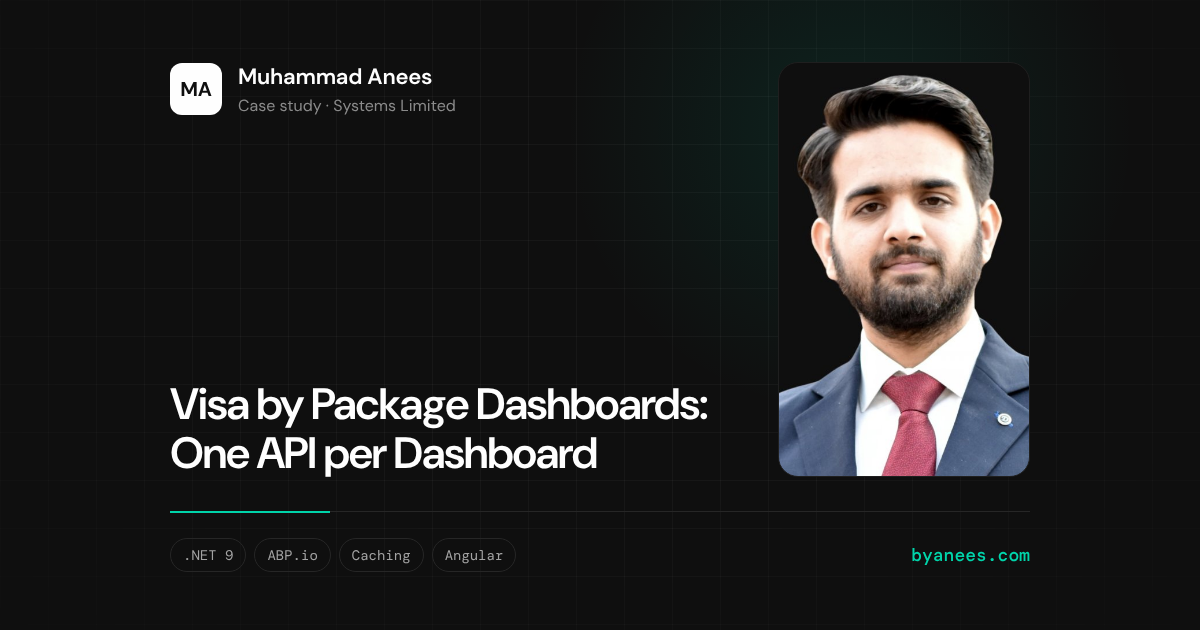
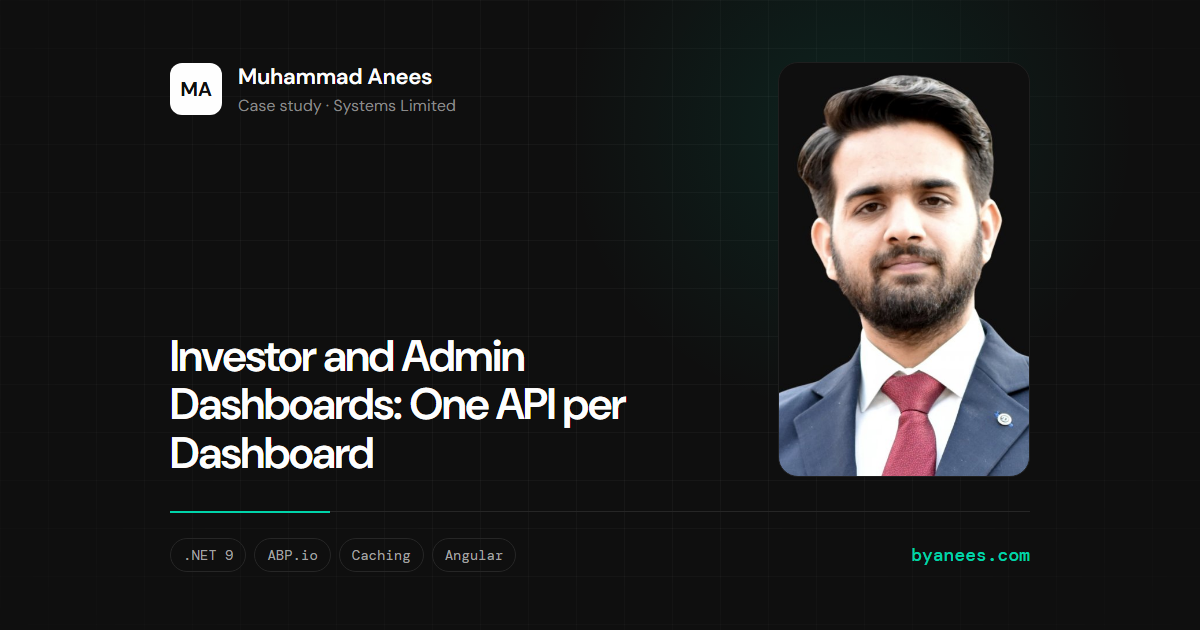
Add the multi-agent AI workflow case study; drop platform names
New case study, /portfolio/multi-agent-ai-development-workflow: how work
ships at Systems Limited with Cursor, Claude, and Copilot, as an
orchestrator agent handing tasks to backend and frontend agents, with
code-review and security agents before a change comes back for a human
decision. Built only from facts already in the CV and on the site (agent
roles, file-scoped prompts with acceptance criteria, MCP servers, incident
RCA under an 8-10 hour SLA). It gets a diagram, a share card, and a link
from the About page's delivery layer.

The site no longer names the Saudi tourism licensing and visa platforms.
The hero, summary, experience entry, and FAQ say "enterprise platforms",
the dashboards case study is retitled "Investor and Admin Dashboards", and
the QC workflow and the dashboards post drop "license" and "Visa by
Package". Its share card is re-rendered to match.

diff --git a/src/data/caseStudies.ts b/src/data/caseStudies.ts
@@ -155,6 +155,33 @@ export const CASE_STUDIES: CaseStudy[] = [
     stack: [".NET", "Microservices", "Third-party APIs"],
   },
   {
+    slug: "multi-agent-ai-development-workflow",
+    domain: "AI-assisted engineering",
+    title: "Multi-Agent AI Development Workflow",
+    company: "Systems Limited",
+    role: "Product Engineer",
+    period: "2026 – Present",
+    summary:
+      "How I ship .NET 9 and Angular features as an AI-native engineer, with Cursor, Claude, and Copilot: an orchestrator agent splits each task across backend and frontend agents, and code-review and security agents check the change before it reaches me.",
+    metaDescription:
+      "An AI-native workflow for .NET 9 and Angular: orchestrator, backend, frontend, code-review, and security agents in Cursor, with MCP servers for context.",
+    problem:
+      "The platform is a DDD microservices codebase with 10+ government and third-party integrations, shared across a 40-person delivery team. An assistant given a vague prompt writes code that compiles and ignores the domain's rules, and after go-live, production incidents come with an 8–10 hour SLA.",
+    built: [
+      "An orchestrator agent in Cursor that takes a task, breaks it into parts, and hands each one to a specialist: a backend agent for .NET 9 and ABP.io, a frontend agent for the Angular micro-frontends",
+      "Structured prompts for every task, with file-scoped context and explicit acceptance criteria, so each agent works on the files that matter and its output is checked against a stated definition of done",
+      "Code-review and security agents as their own steps in the flow, so the change is reviewed and security-checked before it comes back to me",
+      "Internal agent tooling and MCP servers for the team, so the agents can reach project context beyond the files open in the editor",
+      "Agents on root-cause analysis during L3 hypercare, tracing production incidents to their cause inside the SLA",
+      "A clear line on what the agents own: they draft, review, and investigate; design decisions and what ships stay with me",
+    ],
+    results: [
+      { value: "5", label: "agents: orchestrator, backend, frontend, code review, security" },
+      { value: "20+", label: "production incidents traced and fixed within an 8–10 hour SLA" },
+    ],
+    stack: ["Cursor", "Claude", "GitHub Copilot", "MCP", ".NET 9", "Angular"],
+  },
+  {
     slug: "qualification-certificate-workflow",
     domain: "Enterprise workflow",
     title: "Qualification Certificate Workflow",
@@ -168,7 +195,7 @@ export const CASE_STUDIES: CaseStudy[] = [
     problem:
       "A QC application passes through three roles and can be sent back more than once, but has to end the same way every time: a decision on record, and an issued certificate the external system knows about.",
     built: [
-      "Multi-step investor application, covering license eligibility for the QC and selection of company representatives",
+      "Multi-step investor application, covering eligibility for the QC and selection of company representatives",
       "Company representatives can later add card details on the company's behalf through HyperPay, and view the company dashboard",
       "Admin review: the admin can send the application back for corrections, and the investor corrects and resubmits it",
       "Approval: the approver can reject, return the application to the reviewer, or approve it with a comment",
@@ -184,7 +211,7 @@ export const CASE_STUDIES: CaseStudy[] = [
   {
     slug: "backend-aggregation-layer",
     domain: "Platform & analytics",
-    title: "Visa by Package Dashboards: One API per Dashboard",
+    title: "Investor and Admin Dashboards: One API per Dashboard",
     company: "Systems Limited",
     role: "Product Engineer",
     period: "2026 – Present",

diff --git a/src/data/profile.ts b/src/data/profile.ts
@@ -58,12 +58,12 @@ export const PROFILE = {
   /** Square, 800x800. The Person schema's image, which search engines show
    *  as the profile photo. */
   headshot: "/assets/imgs/me/headshot.jpg",
-  heroLead: `${METRICS.years} years as a full stack and backend engineer on fintech, telecom, and government platforms. Now a product engineer at Systems Limited, shipping Saudi tourism licensing and visa platforms on .NET 9, ABP.io, and Angular micro-frontends.`,
+  heroLead: `${METRICS.years} years as a full stack and backend engineer on fintech, telecom, and government platforms. Now a product engineer at Systems Limited, shipping enterprise platforms on .NET 9, ABP.io, and Angular micro-frontends.`,
   /** About page opening line. Deliberately different from heroLead, which the
    *  home hero already prints. */
   aboutLead:
     "I work on the parts of a product that have to stay up: payment rails, schedulers, and the services behind them. Three years in, across fintech, telecom, and government platforms.",
-  summary: `I've led the backend for telco agent apps serving ${METRICS.agents} agents across Tanzania, delivered Request to Pay to ${METRICS.merchants} merchants, and built a scheduler that pushes ${METRICS.notificationsPerRun} notifications per run. Today I build Saudi tourism licensing and visa platforms on .NET 9, ABP.io, and Angular micro-frontends, using domain-driven design across a microservices architecture, in an AI-native, multi-agent workflow with Cursor.`,
+  summary: `I've led the backend for telco agent apps serving ${METRICS.agents} agents across Tanzania, delivered Request to Pay to ${METRICS.merchants} merchants, and built a scheduler that pushes ${METRICS.notificationsPerRun} notifications per run. Today I build enterprise platforms on .NET 9, ABP.io, and Angular micro-frontends, using domain-driven design across a microservices architecture, in an AI-native, multi-agent workflow with Cursor.`,
 };
 
 type Highlight = { value: string; label: string };
@@ -90,7 +90,7 @@ export const EXPERIENCE: ExperienceItem[] = [
     location: "Islamabad, PK",
     current: true,
     summary:
-      "Owning features end to end on Saudi tourism licensing and visa platforms, on .NET 9, ABP.io, and Angular micro-frontends in an AI-native, multi-agent Cursor workflow: government integrations, bilingual notifications, analytics dashboards, and L3 hypercare after go-live.",
+      "Owning features end to end on enterprise platforms, on .NET 9, ABP.io, and Angular micro-frontends in an AI-native, multi-agent Cursor workflow: government integrations, bilingual notifications, analytics dashboards, and L3 hypercare after go-live.",
     highlights: [
       { value: "10+", label: "government and third-party systems integrated" },
       { value: "20+", label: "production incidents fixed within an 8–10 hour SLA" },
@@ -223,7 +223,7 @@ export const STACK_LAYERS = [
     featured: ["GitHub Actions", "Jenkins"],
     after: ".",
     items: ["GitHub Actions", "Jenkins", "ELK"],
-    usedIn: ["preprod-image-promotion"],
+    usedIn: ["preprod-image-promotion", "multi-agent-ai-development-workflow"],
   },
 ];
 

diff --git a/src/data/diagrams.ts b/src/data/diagrams.ts
@@ -220,11 +220,41 @@ export const DIAGRAMS: Record<string, Diagram> = {
             { from: "external", to: "notify", step: 5 },
         ],
         steps: [
-            "The investor applies in steps: license eligibility for the QC, then company representatives",
+            "The investor applies in steps: eligibility for the QC, then company representatives",
             "The admin reviews it and can send it back for corrections; the investor corrects and resubmits",
             "Once the review passes, the application goes to the approver",
             "The approver can reject it, or return it to the reviewer",
             "Or approve it with a comment: the external system is informed and 'QC issued' notifications go out",
+        ],
+    },
+
+    "multi-agent-ai-development-workflow": {
+        title: "One task, five agents, one engineer deciding",
+        zones: [{ x: 470, y: 80, w: 240, h: 420, label: "specialist agents" }],
+        nodes: [
+            { id: "task", x: 110, y: 290, w: 170, label: "Task", sub: "files + criteria", kind: "actor" },
+            { id: "orch", x: 340, y: 290, w: 180, label: "Orchestrator", sub: "splits the work", kind: "service", focus: true },
+            { id: "mcp", x: 340, y: 480, w: 180, h: 64, label: "MCP servers", sub: "team context", kind: "store" },
+            { id: "be", x: 590, y: 180, w: 190, label: "Backend agent", sub: ".NET 9 · ABP.io", kind: "service" },
+            { id: "fe", x: 590, y: 400, w: 190, label: "Frontend agent", sub: "Angular", kind: "service" },
+            { id: "review", x: 870, y: 180, w: 190, label: "Code review", sub: "agent", kind: "service" },
+            { id: "sec", x: 870, y: 400, w: 190, label: "Security", sub: "agent", kind: "service" },
+        ],
+        edges: [
+            { from: "task", to: "orch", step: 1, label: "prompt" },
+            { from: "orch", to: "mcp", step: 2, dashed: true, label: "context" },
+            { from: "orch", to: "be", step: 2, axis: "x" },
+            { from: "orch", to: "fe", step: 2, axis: "x" },
+            { from: "be", to: "review", step: 3, label: "change" },
+            { from: "fe", to: "review", step: 3 },
+            { from: "review", to: "sec", step: 4 },
+        ],
+        notes: [{ x: 870, y: 500, text: "→ back to me to ship", step: 4 }],
+        steps: [
+            "The task goes in as a structured prompt: the files in scope and explicit acceptance criteria",
+            "The orchestrator splits it across the backend and frontend agents, pulling project context from the team's MCP servers",
+            "The code-review agent checks each change against the acceptance criteria",
+            "The security agent checks it again, and the result comes back to me to decide what ships",
         ],
     },
 

diff --git a/src/data/posts.ts b/src/data/posts.ts
@@ -32,7 +32,7 @@ export const POSTS: Post[] = [
     readTime: "6 min read",
     tags: [".NET", "ABP.io", "Caching"],
     bodyHtml: `
-<p>At Systems Limited I worked on the Visa by Package dashboards: four for investors and five for admins. None of their data is ours. It lives in another system, which exposes it through its own APIs. Our job was to put those numbers on screen quickly, and keep them honest.</p>
+<p>At Systems Limited I worked on a set of nine dashboards: four for investors and five for admins. None of their data is ours. It lives in another system, which exposes it through its own APIs. Our job was to put those numbers on screen quickly, and keep them honest.</p>
 
 <h2>Why not call their APIs from the frontend</h2>
 <p>The quickest version is to let each dashboard call the APIs it needs straight from the browser. It works in a demo, and it costs you in four ways:</p>

diff --git a/src/data/pages/about.ts b/src/data/pages/about.ts
@@ -22,7 +22,7 @@ export const FAQ: FaqItem[] = [
     },
     {
         question: "What kind of projects have you worked on?",
-        answer: `Saudi tourism licensing and visa platforms with 10+ government integrations, telco agent apps serving ${METRICS.agents} agents across Tanzania, Request to Pay adopted by ${METRICS.merchants} merchants, EMV QR payments, and earlier client products like an AI assistant and a Dubai property platform.`,
+        answer: `Enterprise platforms with 10+ government and third-party integrations, telco agent apps serving ${METRICS.agents} agents across Tanzania, Request to Pay adopted by ${METRICS.merchants} merchants, EMV QR payments, and earlier client products like an AI assistant and a Dubai property platform.`,
     },
     {
         question: "Do you work with AI tools?",
